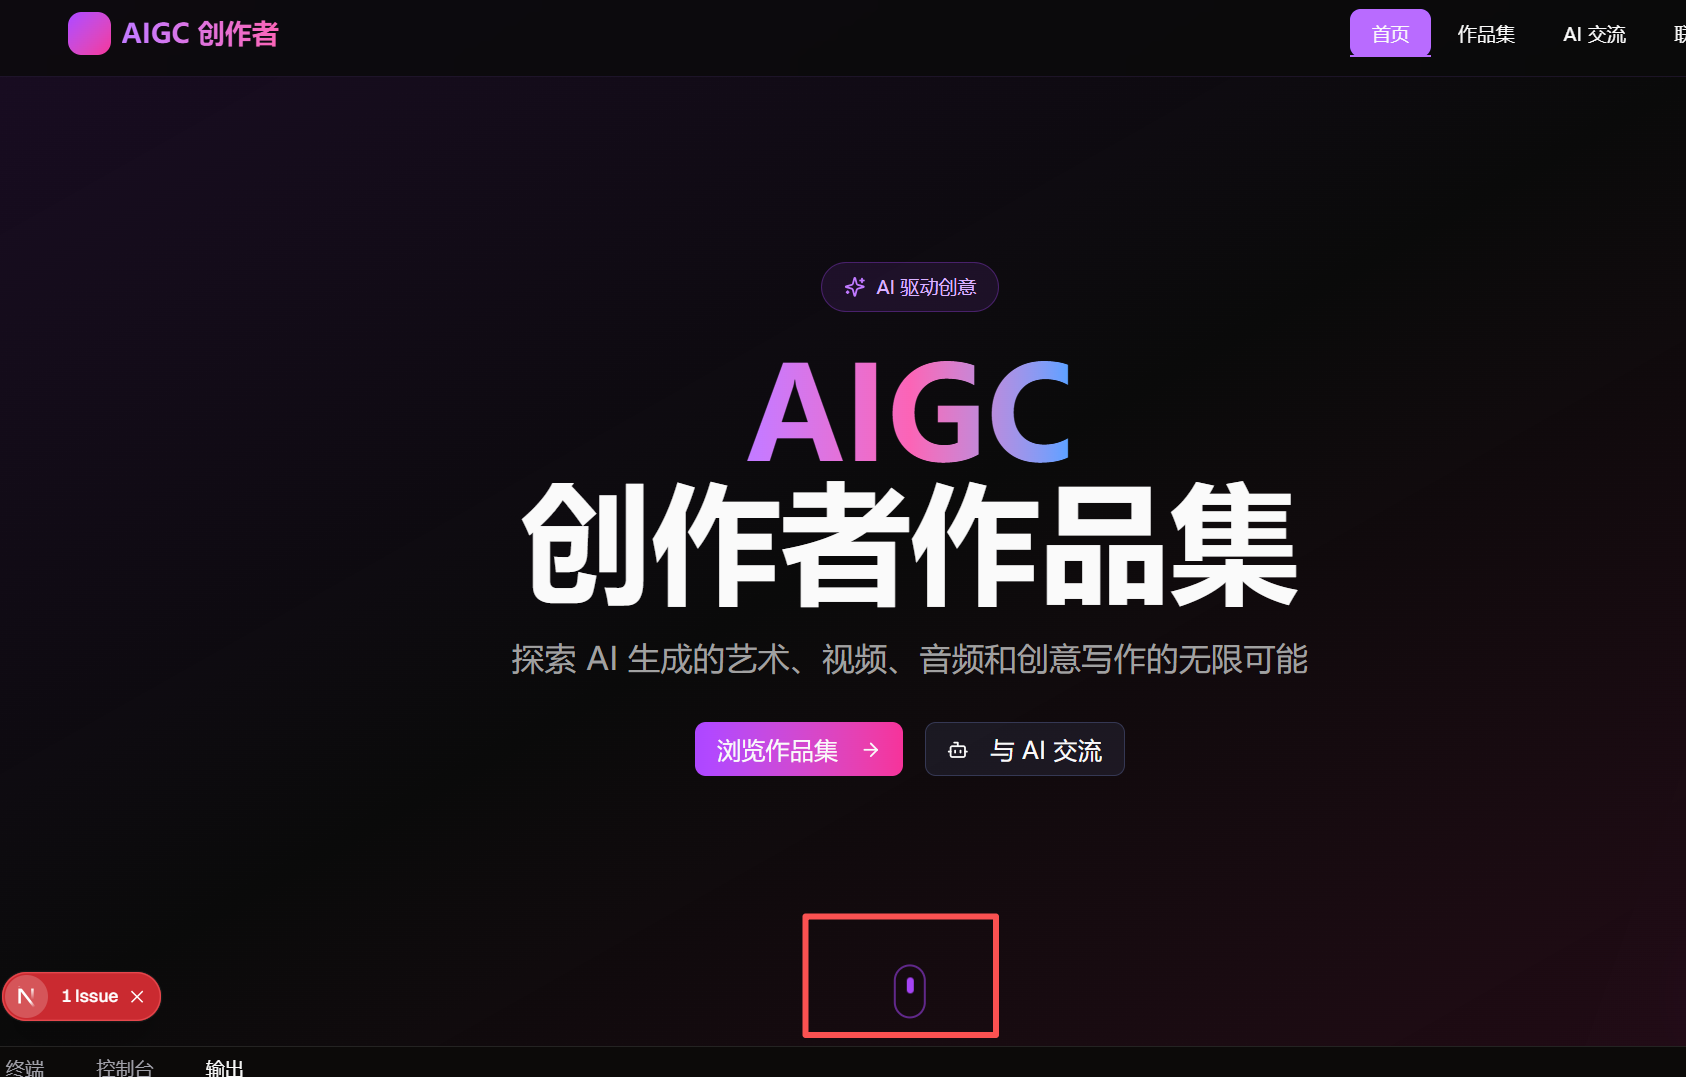
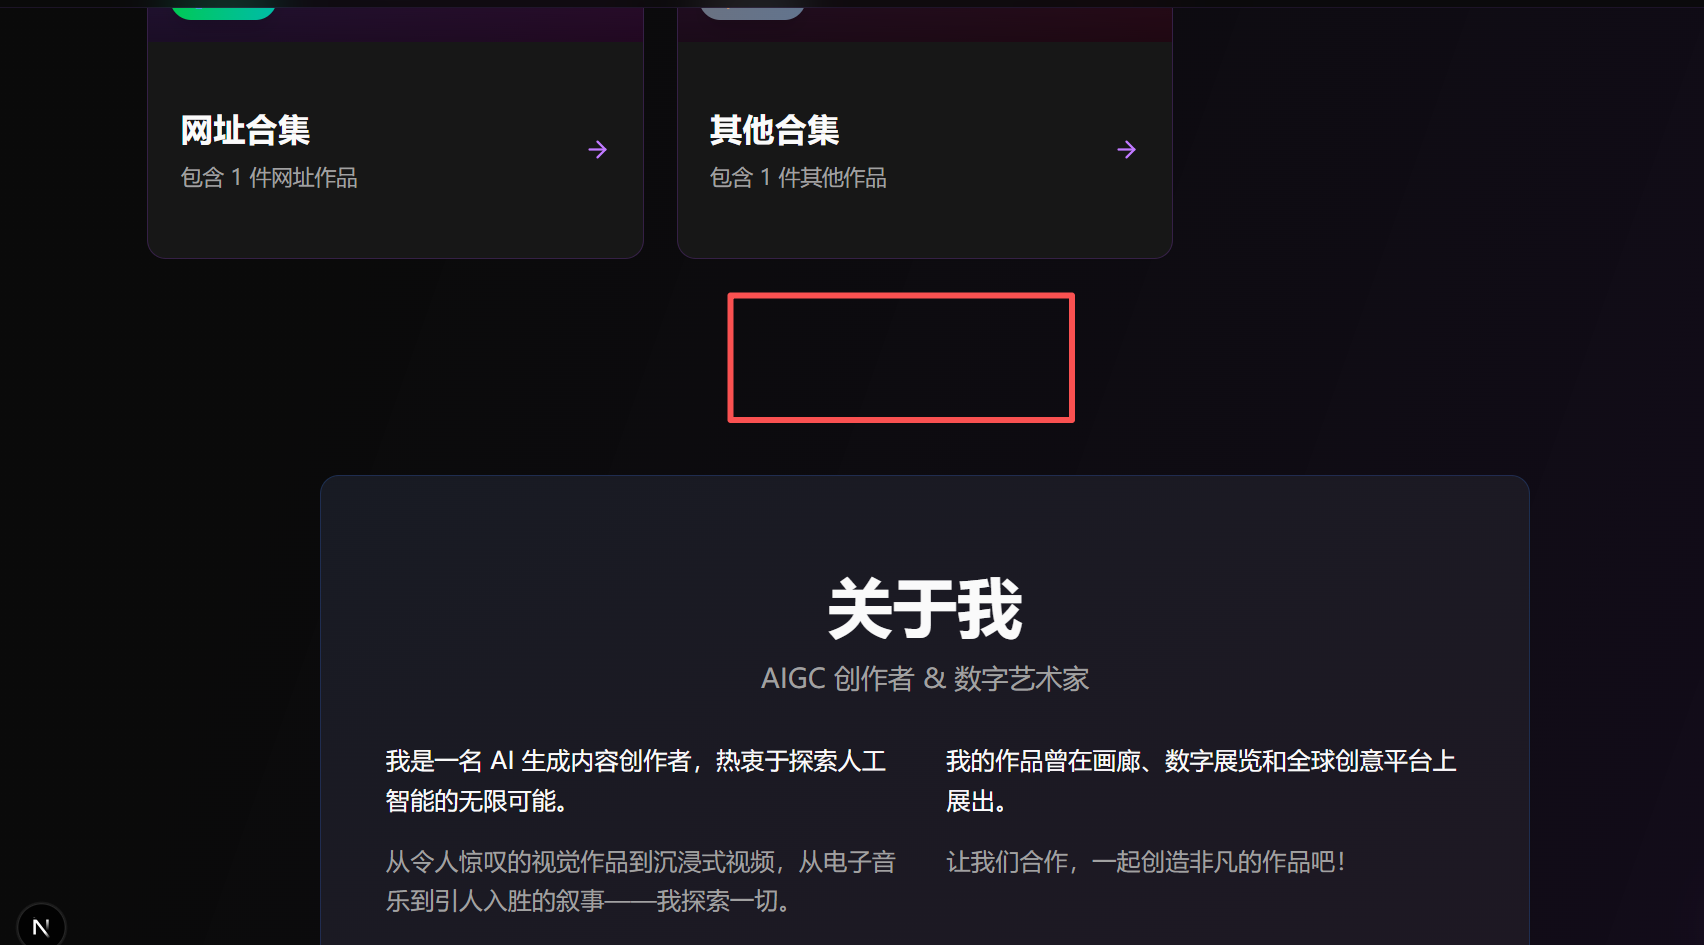
fix: 优化滚动指示器布局，添加回到顶部按钮
- 删除Hero Section底部的旧滚动指示器，避免重复
- 在页面底部添加"回到顶部"按钮
- 保持各section之间的滚动提示一致性

diff --git a/src/app/page.tsx b/src/app/page.tsx
@@ -231,17 +231,6 @@ export default function Home() {
             </div>
           </motion.div>
         </div>
-
-        {/* Scroll Indicator */}
-        <motion.div
-          className="absolute bottom-8 left-1/2 -translate-x-1/2"
-          animate={{ y: [0, 10, 0] }}
-          transition={{ duration: 2, repeat: Infinity }}
-        >
-          <div className="w-6 h-10 border-2 border-purple-500/50 rounded-full flex items-start justify-center p-2">
-            <div className="w-1.5 h-3 bg-purple-500 rounded-full animate-pulse" />
-          </div>
-        </motion.div>
       </motion.div>
 
       {/* Personal Profile Card Section */}
@@ -703,6 +692,24 @@ export default function Home() {
         {/* 滚动指示器 */}
         <ScrollIndicator color="green" />
       </section>
+
+      {/* Back to Top Button */}
+      <motion.div
+        initial={{ opacity: 0 }}
+        animate={{ opacity: 1 }}
+        transition={{ delay: 2 }}
+        className="fixed bottom-8 left-1/2 -translate-x-1/2 z-30"
+      >
+        <Button
+          size="lg"
+          variant="outline"
+          className="border-purple-500/30 hover:bg-purple-500/10 hover:border-purple-500/50 hover:shadow-lg hover:shadow-purple-500/20 transition-all duration-300 gap-2"
+          onClick={() => window.scrollTo({ top: 0, behavior: 'smooth' })}
+        >
+          回到顶部
+          <ArrowRight className="w-4 h-4 rotate-[-90deg]" />
+        </Button>
+      </motion.div>
 
       {/* AI Greeting Floating Widget */}
       <motion.div
